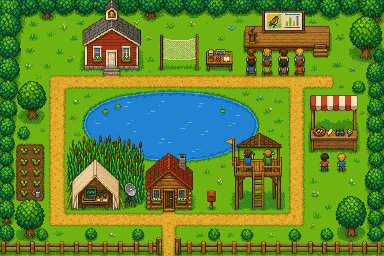
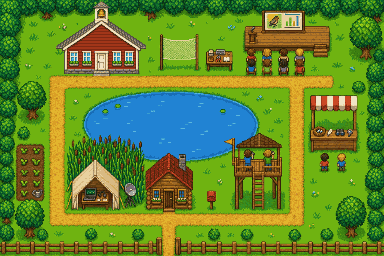
Update the site

Changed region(s): [[0.125, 0.0, 0.4062, 0.3125]]

diff --git a/index.html b/index.html
@@ -316,13 +316,13 @@ const MAPW = 384, MAPH = 256, C = 8, GC = MAPW / C, GR = MAPH / C;
 const GRID = [
   '################################################',
   '################################################',
-  '####.##.....####..##...##.##....#######.##..####',
-  '###.......########..........#.###########...####',
-  '###.#.....########..#...#.....##ppppppppp#.#####',
-  '###.......########..#####.....#########pp#..####',
-  '####......########..#####.###.#########pp#..####',
-  '###.......########..##################.pp...####',
-  '###.......########..#...#####.#########.....#.##',
+  '####.##....###....##...##.##....#######.##..####',
+  '###.....#.######............#.###########...####',
+  '###.#...#########...#...#.....##ppppppppp#.#####',
+  '###....###########..#####.....#########pp#..####',
+  '####...###########..#####.###.#########pp#..####',
+  '###.....##########..##################.pp...####',
+  '###.....##########..#...#####.#########.....#.##',
   '###...pppppppppppppppppppppppppppppppppppp...###',
   '#####.pppppppppppppppppppppppppppppppppppp..####',
   '######pp.......############.........pp.#########',
@@ -354,7 +354,7 @@ const GRID = [
 // stand = where she stands, face = which way she looks, floor = ground that is part of the place itself
 const PLACES = {
   about:         { name:'Cabin',                      box:[144, 150, 50, 62],  sign:[169, 154], stand:[169, 220], face:'up' },
-  education:     { name:'Schoolhouse',                box:[82, 2, 60, 74],     sign:[56, 46],   stand:[111, 79],  face:'up' },
+  education:     { name:'Schoolhouse',                box:[57, 1, 89, 75],     sign:[102, 47],   stand:[101, 79],  face:'up' },
   experience:    { name:'Research camp',              box:[66, 134, 80, 78],   sign:[95, 161],  stand:[95, 220],  face:'up' },
   presentations: { name:'Conference',                 box:[244, 8, 88, 68],    sign:[283, 10],  stand:[312, 38],  face:'down', floor:[256, 32, 73, 10] },
   memberships:   { name:'Bird club watchtower',       box:[224, 132, 62, 80],  sign:[259, 135], stand:[258, 220], face:'up' },
@@ -534,8 +534,8 @@ const HINT_ES = {"In the reeds": "En el totoral", "On posts and roofs": "En post
 SP.forEach(s => { s.name = ES ? s.es : s.en; s.other = ES ? s.en : s.es; if (ES) { s.note = s.noteEs; s.hint = HINT_ES[s.hint]; if (s.star) { s.star[1] = s.starEs[0]; s.star[2] = s.starEs[1]; } } });
 const SPOTS = {
   reed:[[72, 150], [84, 144], [98, 140], [112, 142], [126, 146], [140, 152], [132, 166], [142, 180], [124, 158], [76, 158]],
-  high:[[83, 45], [141, 45], [161, 35], [197, 35], [266, 11], [300, 11], [318, 95], [350, 95], [259, 134], [233, 138], [169, 153], [182, 154], [95, 160], [130, 184], [65, 242], [126, 242], [226, 242], [299, 242]],
-  ground:[[40, 40], [60, 56], [150, 56], [340, 68], [84, 100], [272, 100], [280, 130], [318, 190], [326, 204], [50, 234], [112, 234], [270, 236], [150, 232], [130, 84], [296, 160], [56, 120], [250, 222], [200, 84], [330, 84]],
+  high:[[59, 46], [144, 46], [161, 35], [197, 35], [266, 11], [300, 11], [318, 95], [350, 95], [259, 134], [233, 138], [169, 153], [182, 154], [95, 160], [130, 184], [65, 242], [126, 242], [226, 242], [299, 242]],
+  ground:[[40, 40], [34, 52], [150, 56], [340, 68], [84, 100], [272, 100], [280, 130], [318, 190], [326, 204], [50, 234], [112, 234], [270, 236], [150, 232], [130, 84], [296, 160], [56, 120], [250, 222], [200, 84], [330, 84]],
   tree:[[31, 100], [42, 92], [365, 36], [356, 28], [29, 219], [351, 215]],
   flower:[[75, 100], [270, 107], [351, 179], [135, 21], [287, 25]],
 };
@@ -550,7 +550,7 @@ addBird(1, 'high', SPOTS.high[4]); [7, 8, 9, 10, 11, 12, 25, 26].forEach(sp => a
 [2, 2, 3, 4, 5].forEach(sp => addBird(sp, 'ground'));
 put(14, 128, 122); put(15, 168, 108); put(16, 196, 134); put(17, 152, 142);                    // on the lagoon
 put(18, 247, 106, { flip:true }); put(19, 92, 126, { flip:false }); put(21, 222, 112);          // heron on the bank, egret in the shallows, jacana on a lily pad
-put(6, 50, 66, { zone:[30, 74] }); put(20, 214, 170, { zone:[198, 230] });                     // lapwing on the school lawn, limpkin along the shore
+put(6, 36, 66, { zone:[26, 46] }); put(20, 214, 170, { zone:[198, 230] });                     // lapwing on the school lawn, limpkin along the shore
 put(22, 170, 120, { to:[120, 100] }); if (reduce) put(23, 300, 196, {}); else put(23, 0, 0, { state:'away', t:rint(240, 700) });       // swallow, caracara
 put(24, 75, 100, { spot:SPOTS.flower[0] });
 const notes = [];
